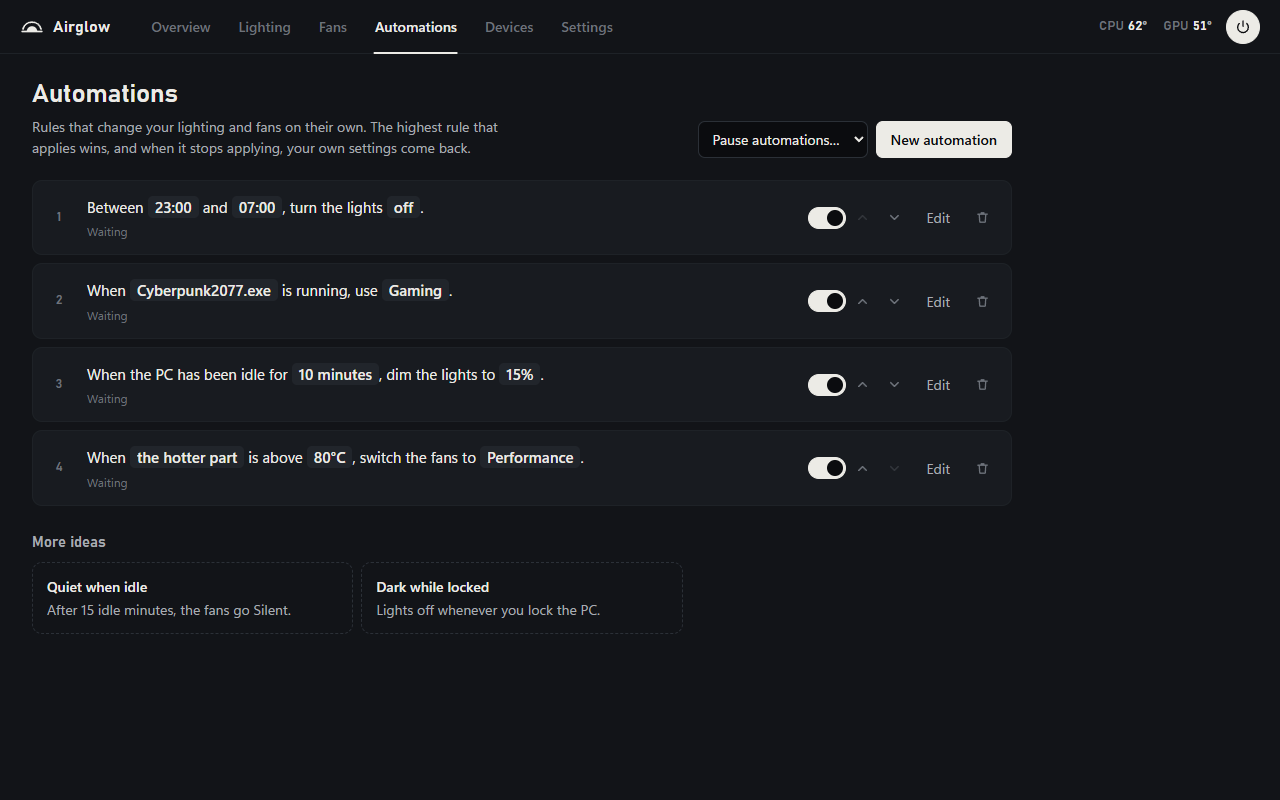
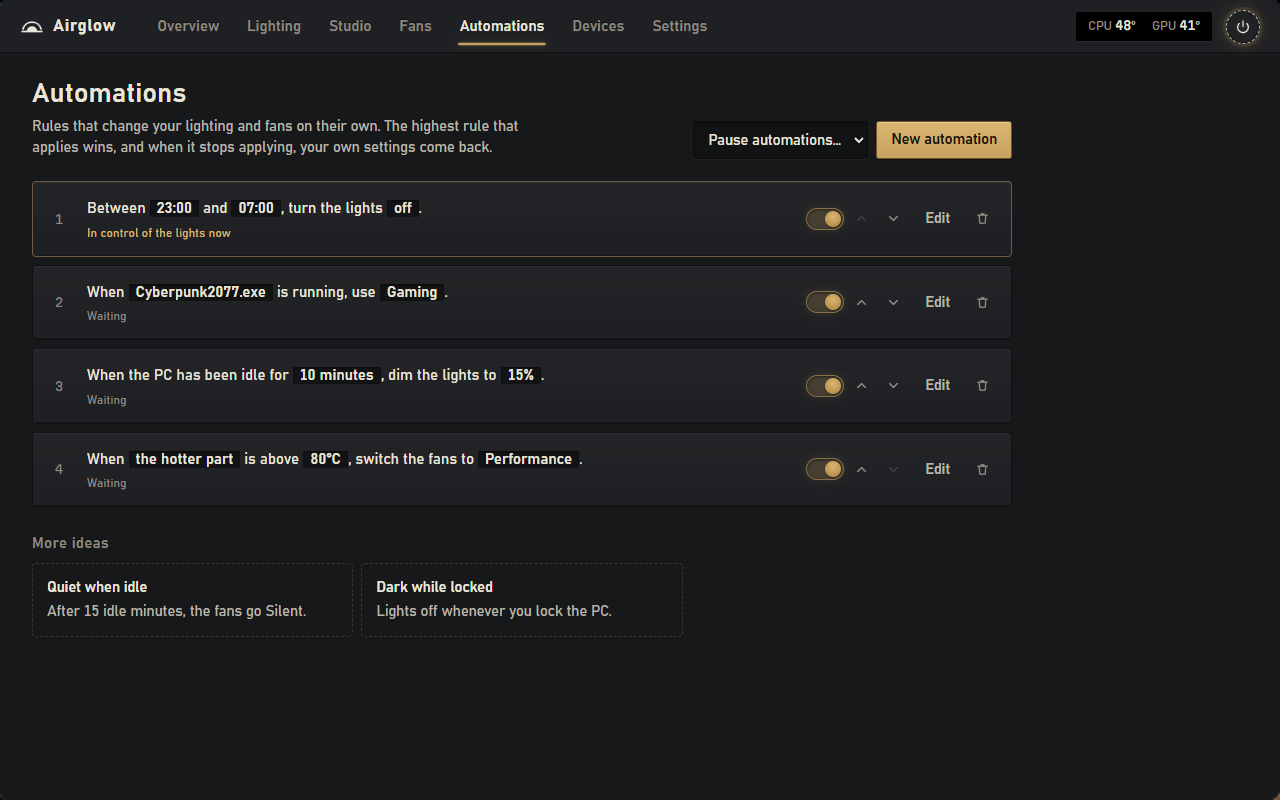
Airglow 1.6.0: new front page and screenshots
- README rewritten for 1.6: the Studio, the new installer and updating,
  and no claims about winget or Scoop until those packages exist.
- New screenshots of the current app (Overview, Lighting, Studio, code
  mode, community effects, fans, automations) and a new social preview.
- The Studio's preview toolbar no longer wraps awkwardly in code mode on a
  1280 px wide window.
- Changelog section for 1.6.0, version 1.6.0.

diff --git a/web/css/app.css b/web/css/app.css
@@ -739,7 +739,7 @@ button.st-card:hover { transform: translateY(-1px); }
 
 /* the editor: layers | your case | settings */
 .st-edit { position: absolute; inset: 0; display: grid; grid-template-columns: 250px minmax(0, 1fr) 300px; grid-template-rows: auto minmax(0, 1fr); }
-.st-edit.is-code { grid-template-columns: minmax(380px, 1.15fr) minmax(0, 1fr) 280px; }
+.st-edit.is-code { grid-template-columns: minmax(340px, 1fr) minmax(0, 1fr) 280px; }
 .st-top { grid-column: 1 / -1; display: flex; align-items: center; gap: 10px; padding: 10px 16px; border-bottom: 1px solid #0f1011; background: var(--panel); box-shadow: var(--bevel); }
 .st-top .spacer { flex: 1; }
 .st-name { width: min(320px, 30vw); padding: 5px 9px; border: 1px solid transparent; border-radius: var(--r-ctl); background: transparent; font: 600 18px var(--display); font-variation-settings: "wdth" 88; color: var(--ink); }
@@ -796,10 +796,10 @@ button.st-card:hover { transform: translateY(-1px); }
 .st-api code { color: var(--ink); }
 
 .st-mid { min-width: 0; min-height: 0; display: flex; flex-direction: column; gap: 10px; padding: 12px 14px 14px; }
-.st-stagebar { display: flex; align-items: center; gap: 18px; }
+.st-stagebar { display: flex; flex-wrap: wrap; align-items: center; gap: 6px 18px; }      /* the meter drops below when it's narrow */
 .st-stagebar .spacer { flex: 1; }
-.st-sw { display: flex; align-items: center; gap: 8px; font-size: 13px; color: var(--ink-2); cursor: pointer; }
-.st-meter { font: 12px var(--mono); font-stretch: 87.5%; color: var(--ink-3); }
+.st-sw { display: flex; align-items: center; gap: 8px; font-size: 13px; color: var(--ink-2); cursor: pointer; white-space: nowrap; }
+.st-meter { font: 12px var(--mono); font-stretch: 87.5%; color: var(--ink-3); white-space: nowrap; }
 .st-meter b { font-weight: 400; color: var(--ink-2); }
 .st-meter b.warm { color: var(--warm); }
 .st-stage { position: relative; flex: 1; min-height: 200px; border-radius: var(--r-stage); background: var(--void); border: 1px solid #0a0a0b; box-shadow: inset 0 3px 18px rgba(0, 0, 0, .95), 0 1px 0 rgba(255, 255, 255, .045); overflow: hidden; }

diff --git a/airglow/__init__.py b/airglow/__init__.py
@@ -1,4 +1,4 @@
 """Airglow: free lighting, fan and sensor control for Windows PCs."""
 
-__version__ = "1.6.0-beta.2"
+__version__ = "1.6.0"
 APP_NAME = "Airglow"

diff --git a/README.md b/README.md
@@ -8,149 +8,169 @@
 ![Windows 10 and 11](https://img.shields.io/badge/Windows-10%20%7C%2011-0078d4)
 [![MIT licence](https://img.shields.io/github/license/Heavenlystorm/airglow)](LICENSE)
 
-Airglow controls the RGB lighting, fans and sensors of a Windows PC from one app, so NZXT CAM, Armoury Crate and
-the rest don't all have to run at once. It's free and MIT-licensed. You don't need an account, and it doesn't send
-anything anywhere.
+Airglow runs the RGB lighting, the fans and the temperature readouts of a Windows PC from one app. If you've ended up
+with NZXT CAM, Armoury Crate and an RGB program all running at once and fighting over the same LEDs, this replaces
+them. It's free and open source, there's no account, and it doesn't collect anything.
 
-![The Overview: a live preview of the lighting, temperatures, load, power and fans](docs/screenshots/overview.png)
+![The Overview: your lights, temperatures, load, power and fans on one screen](docs/screenshots/overview.png)
 
-What it does:
-- Walks you through setting up your lights: each header blinks so you know which one you're looking at, you pick
-  the product (NZXT accessories are detected) or count its LEDs with a slider, then drag it to where it sits on a
-  live picture of your case. USB-connected AIO coolers are recognised by name.
-- Draws your fans and strips on screen where they sit in the case, lit with the colours the hardware is actually
-  showing.
-- Runs effects across every device at once: solid, breathing, colour cycle, rainbow, gradient, comet, temperature,
-  screen ambience and two music effects. A single zone can also have an effect of its own.
-- Lets you drag fan curves into shape. Fans never go below 20 %, and at 90 °C they run at full speed no matter what
-  the curve says.
-- Has a Studio for making your own effects: stack layers (gradients, waves, sparkles, a pulse on the beat), watch
-  them on a picture of your own case and on your real lights as you go, or write one in JavaScript. Share sends it to
-  a community gallery, where every effect plays on your own layout before you install it.
-- Saves profiles (the lighting look, effects for particular areas of the case, a fan curve) and shares them through
-  a community gallery, where every profile plays live on your own layout before you try it on your lights.
-- Has automations that read like sentences, such as "Between 23:00 and 07:00, turn the lights off" or "When
-  Cyberpunk2077.exe is running, use Gaming". When a rule stops applying, your normal settings come back.
-- Shows any reading your PC has on an Overview of tiles you arrange yourself, with ten minutes of history.
-- Turns the lights off while the PC sleeps (a lot of boards leave RGB on), and sets everything up again after sleep
-  or when a device is unplugged and plugged back in.
+## Lighting
+Airglow draws your fans and strips where they actually sit in the case and lights them with the colours the hardware
+is showing right now. Setting that up takes a minute: each header blinks while you set it up, you pick the product
+(NZXT accessories are recognised) or count its LEDs with a slider, and drag it into place.
 
-| Lighting | Fans | Automations |
-|---|---|---|
-| ![Lighting](docs/screenshots/lighting.png) | ![Fans](docs/screenshots/fans.png) | ![Automations](docs/screenshots/automations.png) |
+Effects run across everything at once, so a rainbow really does sweep from the front fans to the back. There are ten
+built in, from a plain colour to screen ambience and two that follow the music, and any single zone can have
+its own. Profiles save a whole look, optionally with a fan curve, and you can share them or try other people's
+before keeping them.
 
-## Getting started
-1. Download `Airglow-stable-Setup.exe` from [Releases](../../releases) and run it, or install it with
-   `winget install Heavenlystorm.Airglow`, or with Scoop (`scoop bucket add airglow
-   https://github.com/Heavenlystorm/scoop-airglow`, then `scoop install airglow`). It installs for your Windows user
-   only (no admin prompt), starts with Windows, and can keep itself up to date if you let it. If SmartScreen says
-   "Windows protected your PC", choose More info, Run anyway (see [Is it safe?](#is-it-safe)). Installing over
-   Airglow 1.5 or older moves it to the new installer and keeps your settings.
-2. Close other RGB software (SignalRGB, iCUE, NZXT CAM, Armoury Crate, ...). Two programs driving the same LEDs
-   makes them flicker. Airglow notices them and offers to close them.
-3. Open Airglow. The welcome screen lists what it found. Temperatures and most RGB devices come from two other
-   free programs, LibreHardwareMonitor and OpenRGB. Press **Set up automatically** and Airglow downloads them from
-   their official sources, checks each file against a known checksum, installs them into
-   `C:\Program Files\Airglow Tools` and has them start with Windows. Windows asks for permission once. You can
-   remove them again in Settings, Helper programs.
+![Lighting: the case as you set it up, with the effect list underneath](docs/screenshots/lighting.png)
 
-   If you'd rather set them up yourself, or need motherboard fans:
-   - For temperatures and power, install
-     [LibreHardwareMonitor](https://github.com/LibreHardwareMonitor/LibreHardwareMonitor), run it and turn on
-     Options, Remote Web Server, Run. Without it you still see memory, network, disk and processor load, but fan
-     curves have no temperature to follow, so the fans stay at the failsafe speed.
-   - Most RGB devices (RAM, graphics cards, keyboards, mice, strips, coolers) go through
-     [OpenRGB](https://openrgb.org). Start it with its SDK server on (Settings, SDK Server, Start Server, or run it
-     with `--server`) and they show up in Airglow's Devices tab.
-   - Motherboard fans are handled by [FanControl](https://getfancontrol.com). Airglow switches its profiles when
-     you change preset.
-4. In Devices, check each zone's LED count and shape. If you're not sure, press Identify. The first LED blinks
-   green, then a white dot walks through every LED in order.
+## The Studio
+New in 1.6. If none of the effects is quite what you want, make your own. Pick a starting point, stack layers
+(gradients, plasma, waves, sparkles, a scanner, a pulse on the beat), choose how each one mixes in and which part of
+the case it lights, and watch the result on your own case as you go. Turn on "Also on my lights" and the real hardware
+follows along. Tick "Show as a control" under any setting and whoever uses your effect can change it.
 
-Needs Windows 10 1809 or newer with the Edge WebView2 runtime (built into Windows 11). Airglow is Windows-only.
+![The Studio: layers on the left, your case in the middle, the selected layer's settings on the right](docs/screenshots/studio.png)
+
+If you'd rather write code, switch the editor to Code. An effect is a small HTML file with a script that draws on a
+320 × 200 canvas, or simply answers "what colour is this LED right now?". There's a canvas, a per-LED and a WebGL
+template to start from, and you can edit in VS Code with the preview reloading every time you save.
+
+![Code mode: the effect's file on the left, the preview in the middle, its controls on the right](docs/screenshots/studio-code.png)
+
+Share sends your effect to the community gallery as a pull request on GitHub. It gets checked automatically and
+looked over, and once it's merged everyone can find it in Studio, Community effects, see it running on their own
+case and install it. Every effect, yours or someone else's, runs sandboxed: it can't reach the internet, your files
+or the rest of Airglow. [docs/EFFECT-STUDIO.md](docs/EFFECT-STUDIO.md) has the details, and
+[effects/README.md](effects/README.md) explains sharing.
+
+![Community effects, each shown on your own case](docs/screenshots/community.png)
+
+## Fans and automations
+Fan curves are a line you drag into shape. Fans never go below 20 %, and at 90 °C they run at full speed whatever the
+curve says. If the temperature readings stop, the fans go to a failsafe speed until they come back.
+
+Automations are rules that read like sentences: "Between 23:00 and 07:00, turn the lights off", "When
+Cyberpunk2077.exe is running, use Gaming". When a rule stops applying, you get your own settings back. Airglow also
+turns the lights off while the PC sleeps (plenty of boards leave RGB on) and sets everything up again afterwards.
+
+| Fans | Automations |
+|---|---|
+| ![Fan curve editor](docs/screenshots/fans.png) | ![Automations](docs/screenshots/automations.png) |
+
+## Installing
+1. Download `Airglow-stable-Setup.exe` from the [latest release](../../releases/latest) and run it. It installs for
+   your Windows user only, so there's no admin prompt, and it starts with Windows. The installer isn't code-signed yet,
+   so SmartScreen may say "Windows protected your PC". Choose More info, then Run anyway, or see
+   [Is it safe?](#is-it-safe) first.
+2. Close any other RGB software (SignalRGB, iCUE, NZXT CAM, Armoury Crate). Two programs driving the same LEDs makes
+   them flicker. Airglow spots the usual ones and offers to close them.
+3. Open Airglow. The welcome screen shows what it found. Temperatures and most RGB devices come from two other free
+   programs, LibreHardwareMonitor and OpenRGB. Press **Set up automatically** and Airglow downloads them from their
+   own sites, checks each file against a known checksum and installs them. Windows asks for permission once.
+4. Set up your lights when it asks. It takes about a minute.
+
+Coming from 1.5 or older? Run the new installer. It moves Airglow to the new setup and keeps your settings, profiles
+and helper programs. From 1.6 on, Airglow can update itself: it asks once whether to check automatically, and if you
+say no it only looks when you press "Check for updates" in Settings, About. winget and Scoop packages are planned.
+
+You need Windows 10 (1809 or newer) or Windows 11. Windows 11 already has the WebView2 runtime Airglow uses; on
+Windows 10 it usually comes with Edge.
+
+<details>
+<summary>Setting up the helper programs yourself, or motherboard fans</summary>
+
+- For temperatures and power, install [LibreHardwareMonitor](https://github.com/LibreHardwareMonitor/LibreHardwareMonitor),
+  run it and turn on Options, Remote Web Server, Run. Without it you still see memory, network, disk and processor
+  load, but the fan curves have no temperature to follow, so the fans stay at the failsafe speed.
+- Most RGB devices (RAM, graphics cards, keyboards, mice, strips, coolers) go through [OpenRGB](https://openrgb.org).
+  Start it with its SDK server on (Settings, SDK Server, Start Server, or run it with `--server`) and they appear in
+  Airglow's Devices tab.
+- Motherboard fans are handled by [FanControl](https://getfancontrol.com). Airglow switches its profiles when you
+  switch profiles in Airglow.
+</details>
 
 ## Supported hardware
 | Connection | Devices |
 |---|---|
 | Directly over USB | NZXT Control Hub. ASUS Aura USB motherboard controller `0B05:19AF`. |
-| Directly over USB, experimental | NZXT RGB & Fan Controller, Smart Device V2, HUE 2 and HUE 2 Ambient; ASUS Aura motherboard controllers `18F3`, `1939`, `1AA6`, `1BED`. These speak the same protocol as the tested ones but haven't been confirmed with Airglow yet. If you own one, please [report how it went](CONTRIBUTING.md#reporting-a-problem). |
-| Through OpenRGB | Everything OpenRGB supports. ARGB headers it splits into fans show as fan rings, keyboards as a grid. |
-| Windows Dynamic Lighting, experimental | Keyboards, mice and accessories with HID LampArray support. Off by default (Settings, More devices): Windows only lets Airglow light them while its window is in front. |
-| Sensors | Everything LibreHardwareMonitor reports. Memory, network, disk and processor load also work without it. |
+| Directly over USB, experimental | NZXT RGB & Fan Controller, Smart Device V2, HUE 2 and HUE 2 Ambient; ASUS Aura motherboard controllers `18F3`, `1939`, `1AA6`, `1BED`. They speak the same protocol as the tested ones but nobody has confirmed them with Airglow yet. If you own one, please [say how it went](CONTRIBUTING.md#reporting-a-problem). |
+| Through OpenRGB | Everything OpenRGB supports. ARGB headers it splits into fans show up as fan rings, keyboards as a grid. |
+| Windows Dynamic Lighting, experimental | Keyboards, mice and accessories with HID LampArray support. Off by default (Settings, More devices), because Windows only lets Airglow light them while its window is in front. |
+| Sensors | Everything LibreHardwareMonitor reports. Memory, network, disk and processor load work without it. |
 | Motherboard fans | Through FanControl profiles. |
 
-Directly supported controllers come from device plugins, one file per family in
-[`airglow/plugins/`](airglow/plugins/). How to add one is in [CONTRIBUTING.md](CONTRIBUTING.md).
+Controllers Airglow drives directly come from device plugins, one file per family in
+[`airglow/plugins/`](airglow/plugins/). [CONTRIBUTING.md](CONTRIBUTING.md) explains how to add one.
 
 ## Troubleshooting
-If a device is missing or says "busy", another RGB program still has it open. Close that program (check the tray
-too) and give it a few seconds.
+A device is missing or says "busy": another RGB program still has it open. Close it (check the tray too) and give it
+a few seconds.
 
-If there are no temperatures, LibreHardwareMonitor isn't running or its web server is off. Airglow looks for it at
-the address in Settings, Sensors, which is `http://localhost:8085` by default.
+No temperatures: LibreHardwareMonitor isn't running, or its web server is off. Airglow looks for it at the address in
+Settings, Sensors, which is `http://localhost:8085` unless you changed it.
 
-If OpenRGB devices don't show up, make sure OpenRGB's SDK server is running. Airglow tries again every 10 seconds.
+OpenRGB devices don't show up: make sure OpenRGB's SDK server is running. Airglow tries again every 10 seconds.
 
-If the colours on a strip look wrong, change its colour order (RGB, GRB and so on) in Devices.
+A strip shows the wrong colours: change its colour order (RGB, GRB and so on) in Devices.
 
-For anything else, go to Settings, About and press **Save a report**, then open an issue and attach the zip. It has
-the logs and what Airglow found, with your user name, PC name and device serial numbers taken out.
+A Studio effect is dark: Airglow turns an effect off if it hangs or uses too much memory, and says so at the top of
+the window with a Try again button. Music effects stay dark while nothing is playing; Test beat in the Studio shows
+what they'd do.
 
-Settings are kept in `%APPDATA%\Airglow` and logs in its `logs` folder.
-
-If you let Airglow set up LibreHardwareMonitor, its web server only answers on this PC and needs a password that
-Airglow made up and keeps in `%APPDATA%\Airglow\lhm-auth.json`. Diagnostics reports leave that file out.
+For anything else, go to Settings, About, press **Save a report** and attach the zip to an issue. It has the logs and
+what Airglow found, with your user name, PC name and device serial numbers taken out. Settings live in
+`%APPDATA%\Airglow`, logs in its `logs` folder.
 
 ## Is it safe?
 Airglow only listens on `127.0.0.1`, and every change has to carry a header that websites can't send, so a web page
-can't touch your hardware. Effects made in the Studio, yours and the community's, run in a sandbox with no network,
-no files and nothing of Airglow's: all they can do is say what colour each LED is. [SECURITY.md](SECURITY.md) has
-the details.
+can't touch your hardware. Studio effects run in a sandbox: all they can do is say what colour each LED should be.
+[SECURITY.md](SECURITY.md) goes into more detail.
 
-There's no telemetry and no account. Airglow goes online for three things only: the update check, which runs on its
-own only if you turn on "Check automatically" (it asks once, and it's off unless you say yes); the community
-galleries for profiles and effects, while you have them open; and setting up the helper programs, when you press the button. The first two only talk to
-GitHub; helper setup downloads from each program's official source.
+There's no telemetry. Airglow only goes online for the update check (on its own only if you said yes to that), the
+community galleries while you have them open, and setting up the helper programs when you ask it to. The update check
+and the galleries only talk to GitHub; the helper programs come from their own official sites.
 
-The fans fail safe. If the sensors stop reporting, they run at the failsafe speed. At 90 °C they go to 100 %. When
-you quit Airglow, it leaves them at the failsafe speed.
+If you let Airglow set up LibreHardwareMonitor, its web server only answers on this PC and needs a password Airglow
+made up for it (kept in `%APPDATA%\Airglow\lhm-auth.json` and left out of diagnostics reports).
 
-The installer isn't code-signed yet, which is why SmartScreen warns about it. If you'd rather not trust the
-download, build it yourself from this repository (see below) and compare.
+The installer isn't signed yet. Releases are built by GitHub Actions straight from this repository, never on
+someone's PC, and you can always build it yourself (below) and compare.
 
 ## Building from source
 ```
 pip install -r requirements-dev.txt
-python -m unittest discover -s tests -t .     # the tests need no hardware
-python run.py                                 # run from source
-python tools\dev_server.py --demo             # the UI on http://127.0.0.1:8790 with a simulated rig and sensors
-.\build.ps1                                   # tests, then dist\Airglow\ and the release in dist\releases\
+python -m unittest discover -s tests -t .     # no hardware needed
+python run.py                                 # run it from source
+python tools\dev_server.py --demo             # the UI on http://127.0.0.1:8790 with a pretend PC
+.\build.ps1                                   # tests, then dist\Airglow\ and the installer in dist\releases\
 ```
-Packing the release needs Velopack's `vpk` (`dotnet tool install -g vpk --version 1.2.161`). Releases themselves are
-built by GitHub Actions when a version tag is pushed: [docs/RELEASING.md](docs/RELEASING.md).
+The installer is made with Velopack's `vpk` (`dotnet tool install -g vpk --version 1.2.161`). Releases are built when
+a version tag is pushed; [docs/RELEASING.md](docs/RELEASING.md) has the steps.
 
-## How it works
-- `airglow/devices.py`, `airglow/hw.py`: USB drivers for the NZXT and ASUS controllers (packet builders are pure
-  functions, tested against captures from real hardware) and the device layer. Which controllers get a driver comes
-  from the device plugins in `airglow/plugins/`.
-- `airglow/openrgb.py`: an independent client for the OpenRGB SDK protocol (version 5, falls back to 3).
-- `airglow/dynlight.py`: Windows Dynamic Lighting devices through `Windows.Devices.Lights`.
-- `airglow/lighting/`: zone geometry, effects (numpy, about 30 fps), screen and audio inputs that only run while an
-  effect uses them, and the engine that streams changed frames to each device on its own thread.
-- `airglow/sensors.py`: every LibreHardwareMonitor sensor by its stable id, plus `auto/...` shortcuts (such as
-  `auto/cpu_temp`) that find the right sensor on any PC.
-- `airglow/automation.py`: state-based rules; the highest active rule wins, separately for lights and fans.
-- `airglow/controller.py`: works out what should happen from your settings, automations, sleep and lock, and runs
-  the fan curves and the failsafe.
-- `airglow/api.py`: the local HTTP API and a server-sent event stream for the UI.
-- `web/`: the interface, plain JavaScript modules with no framework or build step.
-- The Studio: `airglow/fxformat.py` (the effect file format and its checks), `airglow/lighting/studio.py` (Studio
-  effects on the real lights, through a separate effect host process), `web/runtime/` (the sandbox every effect runs
-  in) and `web/js/studio.js`. Design and security: [docs/EFFECT-STUDIO.md](docs/EFFECT-STUDIO.md).
+## How it's put together
+- `airglow/devices.py`, `airglow/hw.py`: USB drivers for the NZXT and ASUS controllers and the device layer. The
+  packet builders are plain functions, tested against captures from real hardware. Device plugins in
+  `airglow/plugins/` decide which controllers get a driver.
+- `airglow/openrgb.py`: a client for the OpenRGB SDK protocol (version 5, falling back to 3), written from the
+  published protocol.
+- `airglow/dynlight.py`: Windows Dynamic Lighting through `Windows.Devices.Lights`.
+- `airglow/lighting/`: zone geometry, the built-in effects (numpy, about 30 frames a second), screen and audio
+  capture that only run while an effect needs them, and the engine that sends each device its changed frames on its
+  own thread. `studio.py` runs Studio effects for the real lights in a separate, sandboxed effect host process.
+- `airglow/sensors.py`: every LibreHardwareMonitor sensor by its stable id, plus shortcuts like `auto/cpu_temp` that
+  find the right sensor on any PC.
+- `airglow/automation.py` and `airglow/controller.py`: the rules (the highest one that applies wins, separately for
+  lights and fans), and the part that works out what should happen and runs the fan curves and the failsafe.
+- `airglow/api.py`, `airglow/studioapi.py`: the local HTTP API and the event stream the window listens to.
+- `airglow/fxformat.py`, `web/runtime/`: the Studio's effect format and the sandbox effects run in.
+- `web/`: the interface, plain JavaScript modules with no framework and no build step.
 
 The NZXT and ASUS packet formats follow what liquidctl and OpenRGB document for these controllers (credits in
-[THIRD_PARTY_NOTICES.md](THIRD_PARTY_NOTICES.md)). Airglow is an independent implementation and includes none of
-their code.
+[THIRD_PARTY_NOTICES.md](THIRD_PARTY_NOTICES.md)). Airglow is its own implementation and includes none of their code.
 
 ## Licence
-MIT, see [LICENSE](LICENSE). Bundled components and their licences: [THIRD_PARTY_NOTICES.md](THIRD_PARTY_NOTICES.md).
+MIT, see [LICENSE](LICENSE). Bundled components and their licences are listed in
+[THIRD_PARTY_NOTICES.md](THIRD_PARTY_NOTICES.md).

diff --git a/CHANGELOG.md b/CHANGELOG.md
@@ -1,6 +1,6 @@
 # Changelog
 
-## Unreleased
+## 1.6.0
 - **The Studio**, a new tab for making your own effects. Pick a starting point (or remix any effect), stack layers
   such as gradients, plasma, waves, sparkles, a scanner, breathing and three that follow the music, choose how each
   mixes in and which area of the case it lights, and watch it on a picture of your own case, and on your real lights
@@ -20,9 +20,10 @@
 - A beta channel in Settings, About, for new features first.
 - A new installer (Velopack). Installing over 1.5 or older moves Airglow to it: the old copy and its shortcuts go,
   your settings, profiles and helper programs stay, and "Start with Windows" keeps pointing at Airglow.
-- Also on winget (`winget install Heavenlystorm.Airglow`) and Scoop.
 - Installing a new version while Airglow is open works without quitting first, and after a winget upgrade Airglow
   starts again in the tray.
+- Sharing a long profile works: GitHub only takes about 8 KB in its address, so a longer profile goes on the
+  clipboard, and Airglow tells you to paste it on the page that opens.
 - Releases are built and published by GitHub Actions from a version tag.
 
 ## 1.5.0
